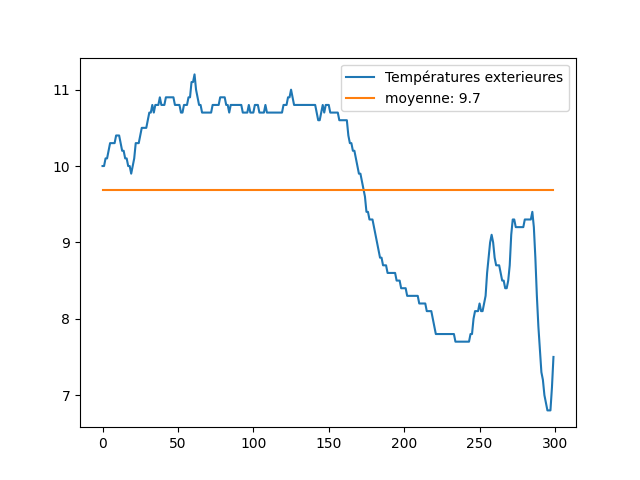
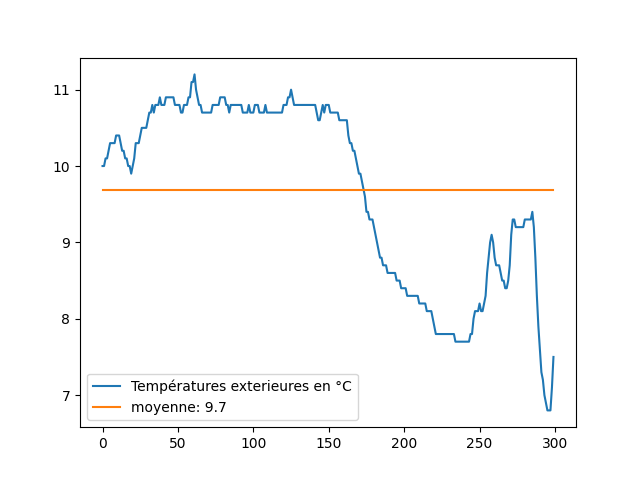
finished

Changed region(s): [[0.5938, 0.125, 0.875, 0.2188], [0.125, 0.7812, 0.5625, 0.875], [0.5312, 0.1562, 0.5625, 0.2188]]

diff --git a/meteo.html b/meteo.html
@@ -4,21 +4,26 @@
     <meta charset="UTF-8">
     <meta name="viewport" content="width=device-width, initial-scale=1.0">
     <title>Weather Project</title>
+
     <link rel="stylesheet" href="style.css">
+    <!-- Logo par alexis-->
+    <link rel="shortcut icon" href="hautbarr-logo.jpg" type="image/x-icon">
 </head>
 <body>
-
+    <!-- HTML (Ulysse) -->
     <h1 class="Titre">Météo du 27 Janvier 2012</h1>
 
-    <h3 class="sous-titretemp">Courbe des températures</h3>
-    <h3 class="sous-titrehumidite">Courbe de l'humidité</h3>
-    <h3 class="sous-titrevent">Courbe du vent</h3>
-    <h3 class="sous-titreprecip">Précipitations</h3>
-
-    <img class="tempext" src="tempExt.png" alt="tempExt">
-    <img class="humext" src="humExt.png" alt="humExt">
-    <img class="anemo" src="vent.png" alt="vent">
-    <img class="pluviometrie" src="pluie.png" alt="pluie">
+    <h3 class="sous-titre" id="sous-titre1">Courbe des températures</h3>
+    <img class="image" src="tempExt.png" alt="tempExt" width="30%" height="50%">
+    
+    <h3 class="sous-titre" id="sous-titre2">Courbe de l'humidité</h3>
+    <img class="image" src="humExt.png" alt="humExt" width="30%" height="50%">
+    
+    <h3 class="sous-titre" id="sous-titre3">Courbe du vent</h3>
+    <img class="image" src="vent.png" alt="vent" width="30%" height="50%">
+    
+    <h3 class="sous-titre" id="sous-titre4">Précipitations</h3>
+    <img class="image" src="pluie.png" alt="pluie" width="30%" height="50%">
     
 </body>
 </html>

diff --git a/style.css b/style.css
@@ -1,37 +1,23 @@
+
+/* CSS (Ulysse) */
+body {
+    color: #ffff;
+    background-color: pink;
+    padding-left: 5%;
+}
+
 .Titre {
     font-style: italic;
     text-decoration: underline;
-    position: absolute;
     left: 4%;
 }
 
-.sous-titretemp {
-    position: absolute;
+.sous-titre {
+    font-weight: 900;
+    padding-bottom: 0;
 }
 
-.sous-titrehumidite {
-    position: absolute;
-}
-
-.sous-titrevent {
-    position: absolute;
-}
-
-.sous-titreprecip {
-    position: absolute;
-}
-
-.tempext {
-    display: flex;   
-}
-.humext {
-    display: flex;
-}
-
-.anemo {
-    display: flex;
-}
-
-.pluviometrie {
-    display: flex;
+.image {
+    border: solid lightblue 1em;
+    border-radius: 15%;
 }

diff --git a/generator.py b/generator.py
@@ -2,7 +2,7 @@ import csv, math
 import matplotlib.pyplot as plt
 
 ## FONCTIONS ##
-# récupère les données d'un ficher
+# récupère les données d'un ficher (Alexis)
 def recupData(_filename):
     """
         récupération des données d'un fichier
@@ -16,7 +16,7 @@ def recupData(_filename):
     output = [line for line in csvReader]
     return output
 
-
+# (Alexis)
 def recupListe(nom, numero):
     """
         arguments:
@@ -30,7 +30,7 @@ def recupListe(nom, numero):
 
     return output
 
-
+# min, max, moyenne (Alexis)
 def minMax(liste: list):
     """
         retourne la valeur max, min et moyenne d'une liste
@@ -45,10 +45,10 @@ def minMax(liste: list):
 
 """MAIN PROGRAM"""
 
-# récuperer le fichier
+# récuperer le fichier (Alexi)
 datas = recupData("donneesMeteo27jan12.csv")
 
-# récuperer les données individuellements
+# récuperer les données individuellements (Alexis)
 tempExt = recupListe(datas,1)   # températures en °C
 humExt = recupListe(datas,2)    # humidité en %
 vent = recupListe(datas,3)      # force du vent en km/h
@@ -56,38 +56,38 @@ pluie = recupListe(datas,4)     # précipiptations en unité de 0.1mm
 
 print(minMax(tempExt))
 
-# récupération des moyennes, minimales et maximales
+# récupération des moyennes, minimales et maximales (Alexis)
 tempMeta = minMax(tempExt)
 tempMini, tempMaxi, tempMoyenne = tempMeta[0],tempMeta[1],tempMeta[2]
 
 
 # Cumul précipitations (Ulysse)
-
 def cumulPrecipitation(pluie):
     cumulprecip = []
     for i in range(len(pluie)):
         cumulprecip.append(0.1 * (pluie[i]))
-    return cumulprecip   
+    return sum(cumulprecip)
 
 cumul = cumulPrecipitation(pluie)
 
 # Création des images (Ulysse)
-def genImagePlot(liste,moyenne,titreDuGraphique,nomFichierImage):
+def genImagePlot(liste,moyenne,titreDuGraphique,nomFichierImage, passerMoyenne=False):
     axeX = [j for j in range(0,len(liste))]
 
     plt.plot(axeX, liste, label=titreDuGraphique)   # les valeures
-    plt.plot(axeX, [moyenne for i in range(len(axeX))], label=f"moyenne: {math.ceil(moyenne*10)/10}") # la moyenne des valeurs
+    # pour pouvoir faire des graphiques sans afficher la moyenne
+    if not passerMoyenne:
+        plt.plot(axeX, [moyenne for i in range(len(axeX))], label=f"moyenne: {math.ceil(moyenne*10)/10}") # la moyenne des valeurs
 
-    # légende
     plt.legend()
-
     plt.savefig(nomFichierImage)
     plt.close()
 
 
 
-# Generer toutes les images
-genImagePlot(tempExt, tempMoyenne, "Températures exterieures", "tempExt.png") # températures exterieurs
-genImagePlot(humExt, minMax(humExt)[2], "Humidité exterieures", "humExt.png") # humidité
-genImagePlot(vent, minMax(vent)[2], "Vitesse du vent", "vent.png") # vent
-genImagePlot(cumul, minMax(cumul)[2], "Précipitations", "pluie.png") # précipitation
+# Generer toutes les images (Ulysse)
+genImagePlot(tempExt, tempMoyenne, "Températures exterieures en °C", "tempExt.png") # températures exterieurs
+genImagePlot(humExt, minMax(humExt)[2], "Humidité exterieures en %", "humExt.png") # humidité
+genImagePlot(vent, minMax(vent)[2], "Vitesse du vent en km/h", "vent.png") # vent
+genImagePlot(pluie, minMax(pluie)[2], "Précipitations en "+str(math.ceil(cumul*10)/10)+" mm", "pluie.png", True) # précipitation
+
